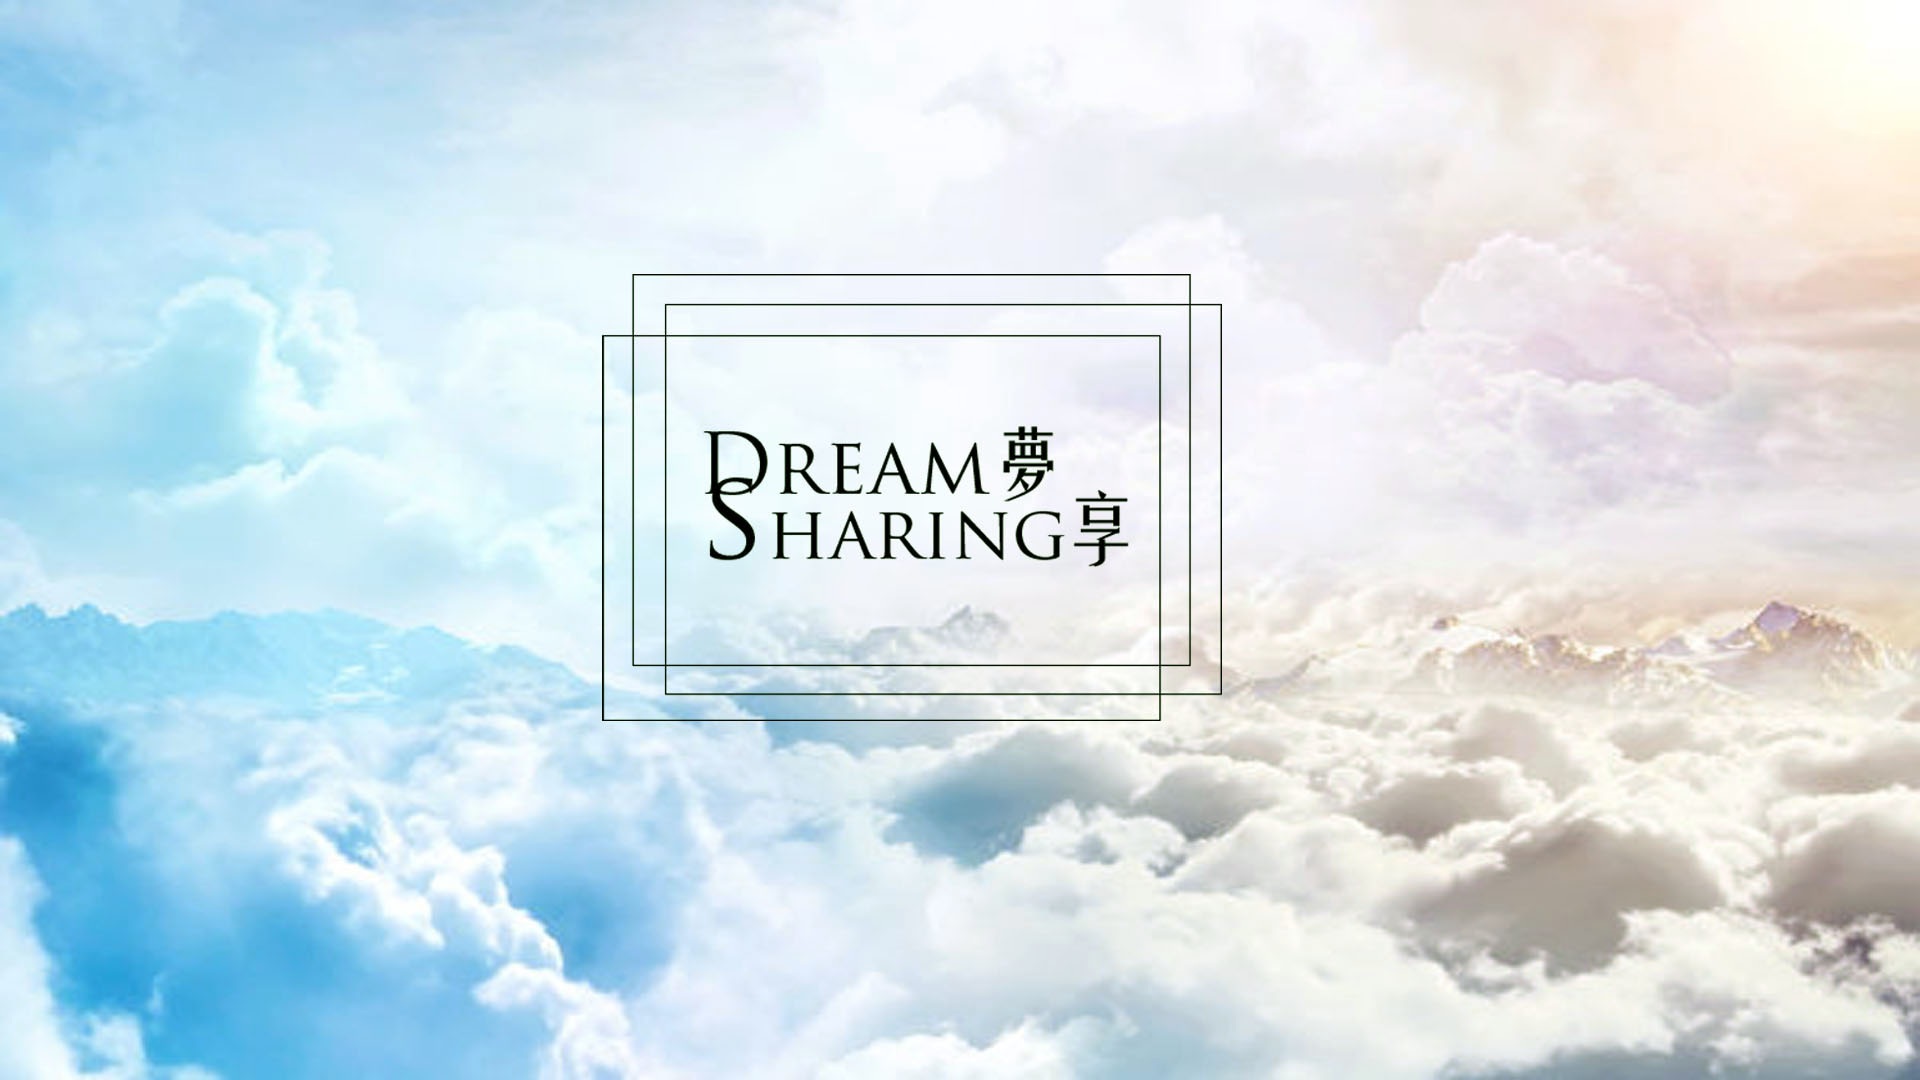
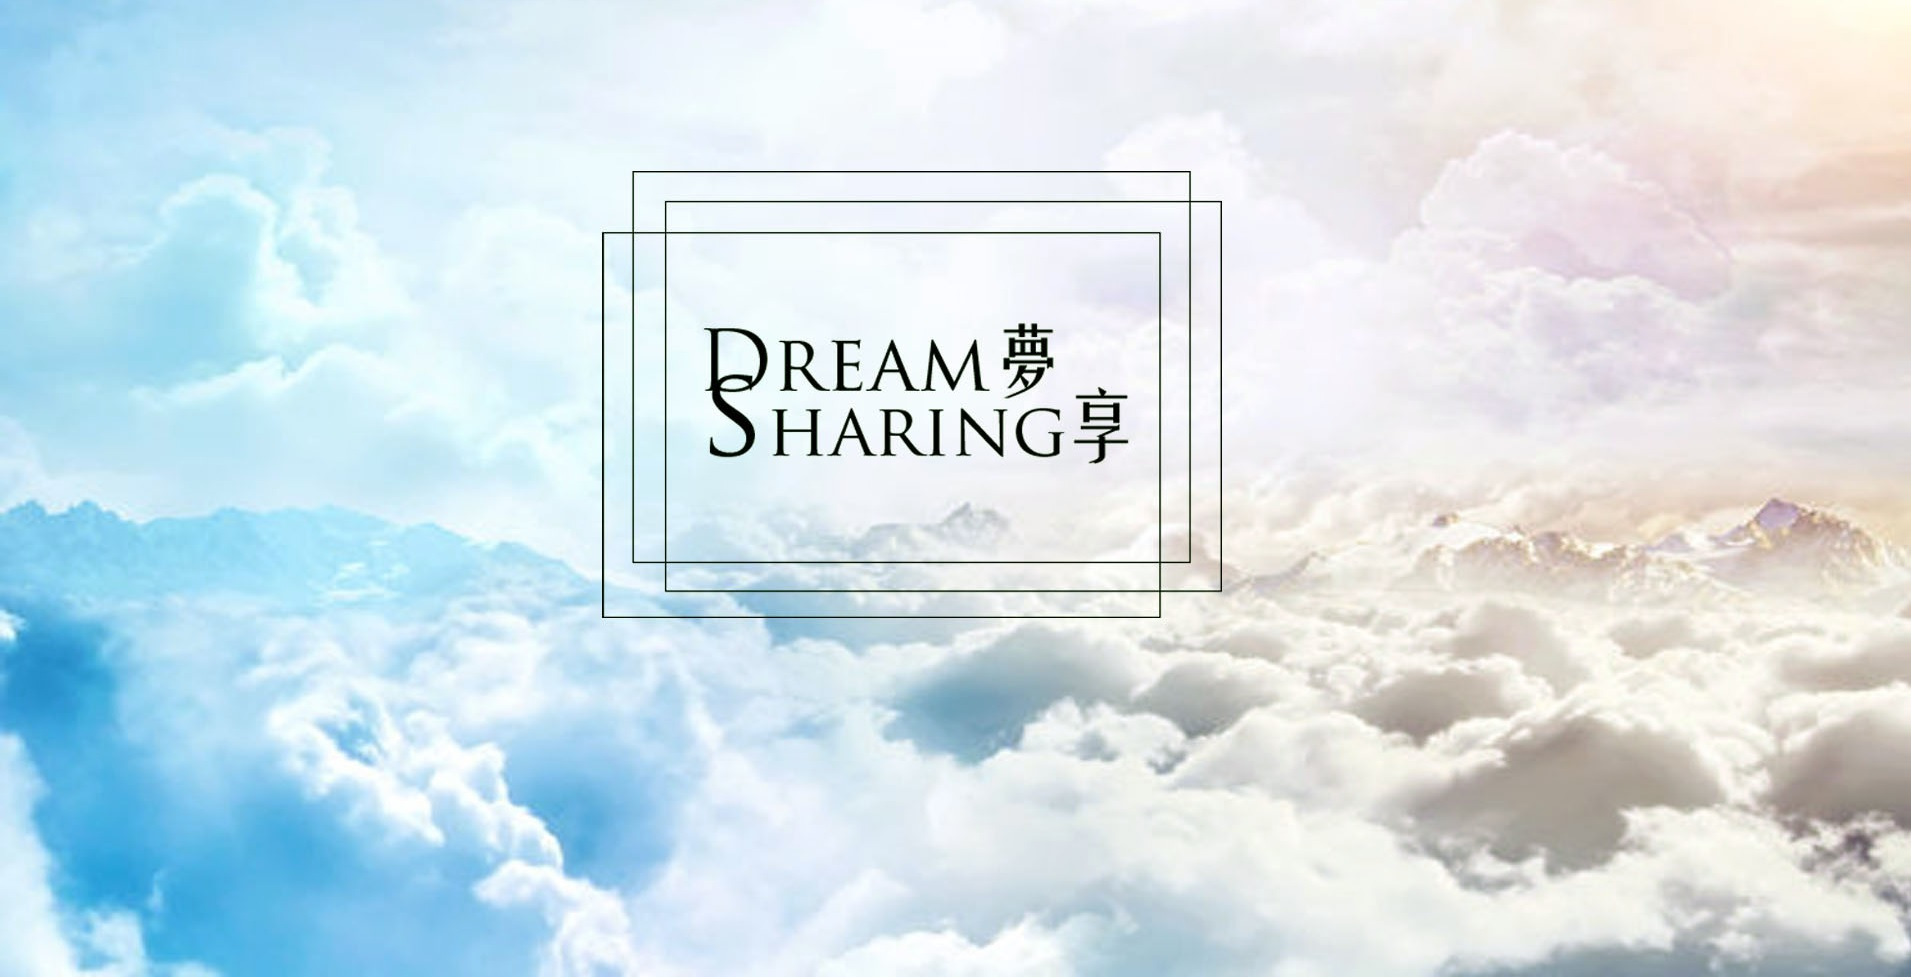
107/6/1

diff --git a/index.html b/index.html
@@ -14,7 +14,7 @@
 	<script type="text/javascript" src="js/html5shiv.js"></script>
 </head>
 <body>
-	<div class="container-fluid" id="c1">
+	<div class="container-fluid" id="c0">
 		<div class="row" id="first">
 			<div class="col-md-offset-2 col-md-1" id="home">
 			<a href="index.html"><img src="image/logo1.png" alt="logo1" width="100px" height="80px"
@@ -35,6 +35,8 @@
 				</div>
 			</div>
 		</div>
+	</div>
+	<div class="container-fluid" id="c1">
 		<a href="index.html#c2"><img src="image/more1.png"
 		onmouseover="this.src='image/more2.png';"
 		onmouseout="this.src='image/more1.png';" id="downicon"></i></a>
@@ -58,8 +60,8 @@
 	<div class="container-fluid" id="c3">
 		<img src="image/area.png" alt="area" id="about">
 		<div id="threepic">
-			<a href="mydream.html" target="_blank"><img src="image/我的夢境1.png" alt="my dream" id="mydream"></a>
-			<a href="analyze.html" target="_blank"><img src="image/我想解夢1.png" alt="analyze" id="analyze"></a>
+			<a href="mydream.html" ><img src="image/我的夢境1.png" alt="my dream" id="mydream"></a>
+			<a href="analyze.html" ><img src="image/我想解夢1.png" alt="analyze" id="analyze"></a>
 			<a href="#"><img src="image/夢境分享區1.png" alt="share" id="share"></a>
 		</div>
 		<a href="index.html#c1" id="arrow"><img src="image/箭頭.png"

diff --git a/css/css1.css b/css/css1.css
@@ -2,11 +2,15 @@ body {
   height: 100%;
   margin: 0;
 }
+.container-fluid#c0{
+  height: 90px;
+  background-color: rgb(174, 214, 241);
+}
 .container-fluid#c1{
 	background-image: url('../image/bg1.jpg');
 	background-repeat: no-repeat;
 	background-size: cover;
-	height: 770px;
+	height: 680px;
 }
 #member{
 	height: 20%;
@@ -15,7 +19,7 @@ body {
 #downicon{
   height: 60px;
   margin-left:45%;
-  margin-top: 42%;
+  margin-top: 36%;
 }
 #home{
   bottom:10px;
@@ -71,7 +75,7 @@ ul{
 }
 #con{
   background-color: rgb(255,255,255);
-  height: 350px;
+  height: 400px;
   width: 700px;
 }
 #aboutword{
@@ -83,12 +87,13 @@ ul{
 #word{
   font-family: 微軟正黑體;
   font-size: 20px;
+  line-height: 33px;
   padding-left: 45px;
-  padding-top: 3px;
+  padding-top: 0px;
 }
 #feather{
-  margin-left: 300px;
-  margin-top: 10px;
+  margin-left: 600px;
+  margin-top: 15px;
 }
 #about{
 	margin-left: 42%;

diff --git a/person.html b/person.html
@@ -1,0 +1,19 @@
+<!DOCTYPE html>
+<html>
+<head>
+	<meta charset="utf-8">
+	<meta http-equiv="X-UA-Compatible" content="IE=edge">
+	<title>我想解夢-人</title>
+	<link rel="stylesheet" href="css/analyze.css">
+	<link rel="stylesheet" href="css/normalize.css" type="text/css">
+	<link rel="stylesheet" href="css/bootstrap.min.css" type="text/css">
+	<link rel="stylesheet" href="https://use.fontawesome.com/releases/v5.0.10/css/all.css" integrity="sha384-+d0P83n9kaQMCwj8F4RJB66tzIwOKmrdb46+porD/OvrJ+37WqIM7UoBtwHO6Nlg" crossorigin="anonymous">
+
+	<script type="text/javascript" src="js/jquery-3.2.1.min.js"></script>
+	<script type="text/javascript" src="js/bootstrap.min.js"></script>
+	<script type="text/javascript" src="js/html5shiv.js"></script>
+</head>
+<body>
+  <button type="button" name="button" class="button"></button>
+</body>
+</html>

diff --git a/analyze.html b/analyze.html
@@ -38,7 +38,7 @@
 	</div>
 		<div class="container-fluid" id="c5">
 			<div class="toppic col-md-offset-2 col-md-10">
-			<a href="#" ><img src="image/personcircle2.png" id="ana1"
+			<a href="person.html" ><img src="image/personcircle2.png" id="ana1"
 			onmouseover="this.src='image/personcircle1.png';"
 			onmouseout="this.src='image/personcircle2.png';"></a>
 			<a href="#" ><img src="image/animalcircle2.png" id="ana2"

diff --git a/analyze.css b/analyze.css
@@ -1,0 +1,20 @@
+.button{
+display: inline-block;
+padding: 15px 25px;
+font-size: 24px;
+cursor: pointer;
+text-align: center;
+text-decoration: none;
+outline: none;
+color: #fff;
+background-color: #4CAF50;
+border: none;
+border-radius: 15px;
+box-shadow: 0 9px #999;
+}
+.button:hover {background-color: #3e8e41}
+.button:active {
+background-color: #3e8e41;
+box-shadow: 0 5px #666;
+transform: translateY(4px);
+}
